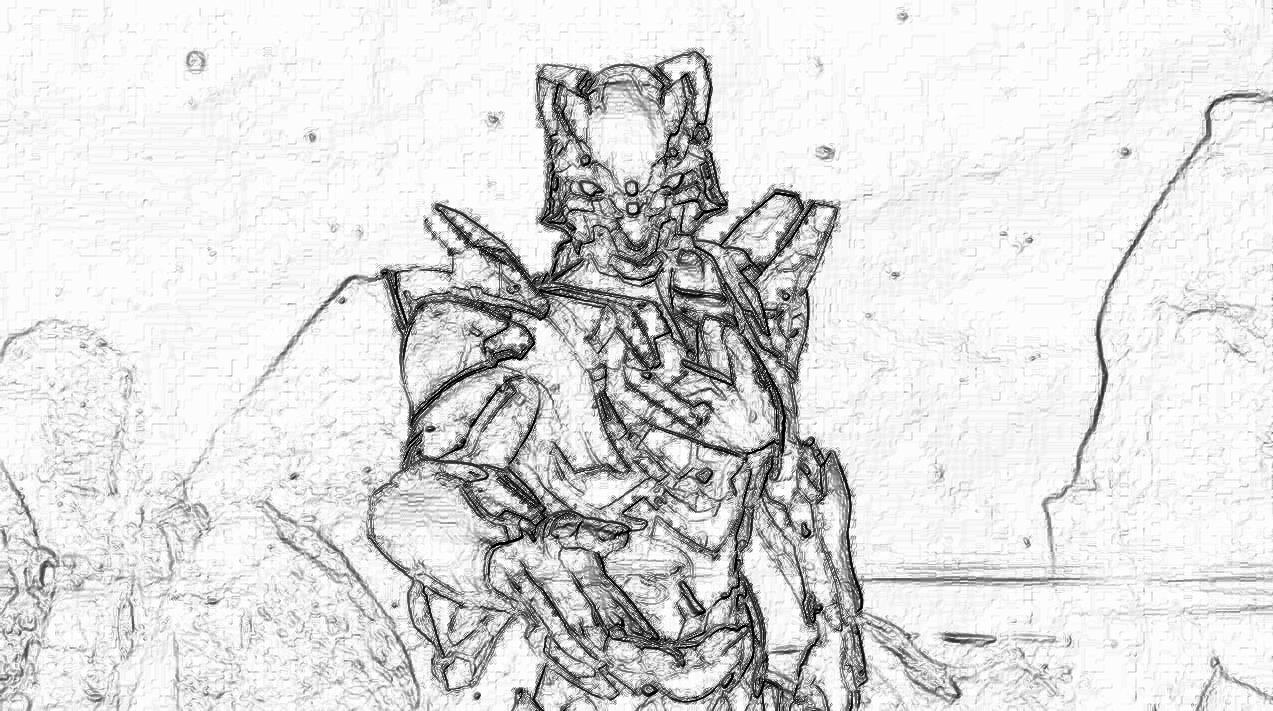
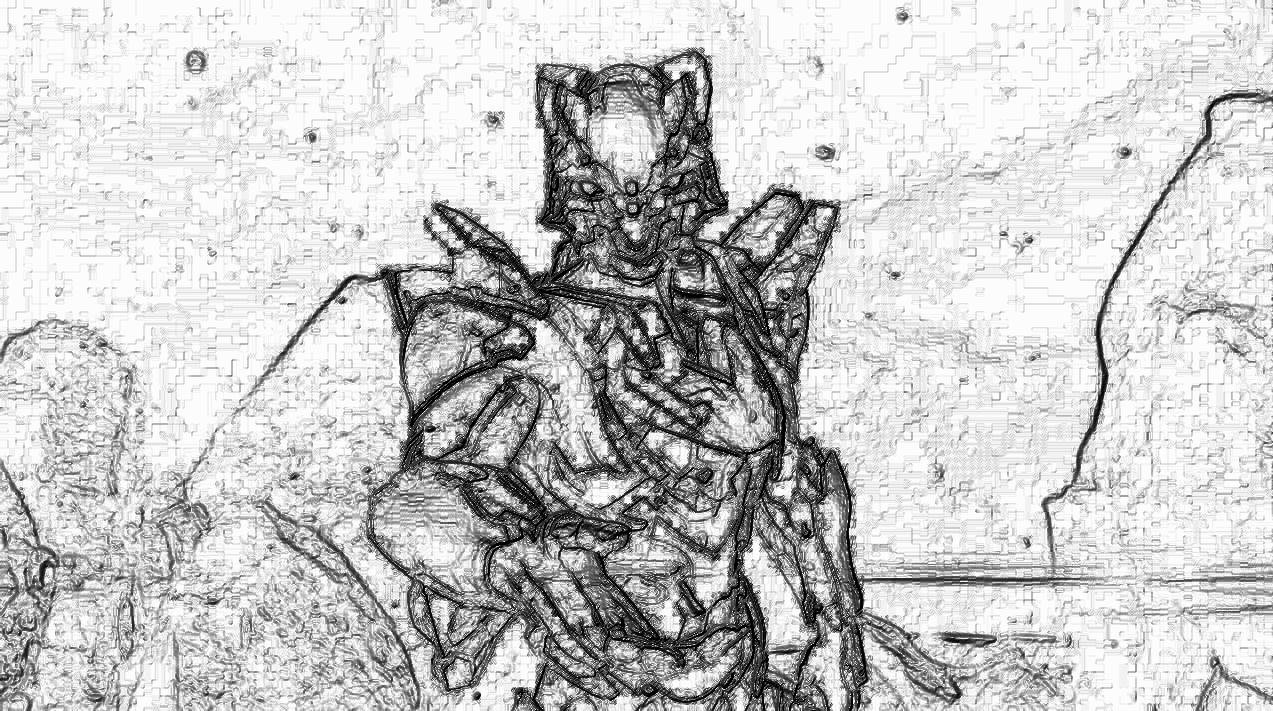
add kangna readme

diff --git a/handPaintStyle/hand_paint_converter_multicore.py b/handPaintStyle/hand_paint_converter_multicore.py
@@ -59,7 +59,7 @@ def worker():
 def handify(img_path: str, save_path: str):
     a = np.asarray(Image.open(img_path).convert('L')).astype('float')
 
-    depth = 40.  # (0-100)，每张图片的最佳深度值不一样，需要自己调整
+    depth = 125.  # (0-100)，每张图片的最佳深度值不一样，需要自己调整
     grad = np.gradient(a)  # 取图像灰度的梯度值
     grad_x, grad_y = grad  # 分别取横纵图像梯度值
     grad_x = grad_x * depth / 100.
@@ -86,4 +86,4 @@ def handify(img_path: str, save_path: str):
 
 if __name__ == '__main__':
     # convert("beijing.jpg", "beijingHD.jpg")
-    handify_dir("inputs", "outputs")
+    handify_dir("2222", "2333")

diff --git a/luoxiaoheidazuozhan/game.py b/luoxiaoheidazuozhan/game.py
@@ -100,7 +100,7 @@ class Plane(DisplayableObject, MovingObject):
         UserBullet.upgrade()
         if self.level == 2:
             self.gun = DoubleFireGun(initial_capacity=self.level + 1)
-        if self.level == 3:
+        elif self.level == 3:
             pass
         elif self.level == 4:
             self.gun = TripleFireGun(initial_capacity=self.level + 1)
@@ -488,7 +488,7 @@ class BasicEnemy(EnemyObject):
 
 class StrongEnemy(BasicEnemy):
     image_object = strong_enemy
-    count = 0
+    count = 1
 
     def __init__(self):
         super(StrongEnemy, self).__init__()

diff --git a/README.md b/README.md
@@ -8,4 +8,4 @@ when an inspiration comes, write a python program
   - ***wechat*** Robot: an automatic response robot in wechat(a chatting software).support search words and phrases, language translation and auto chatting.
   - ***handPaintStyle***: convert imgs into hand painting style pictures
   - ***pdfcombiner***: an utility to help combine all pdfs into a single one
-    
+  - ***lovelyKangna***: Reproduce the famous scene XiaoLin drawing Kangna in anime *Miss Kobayashi's Dragon Maid*
